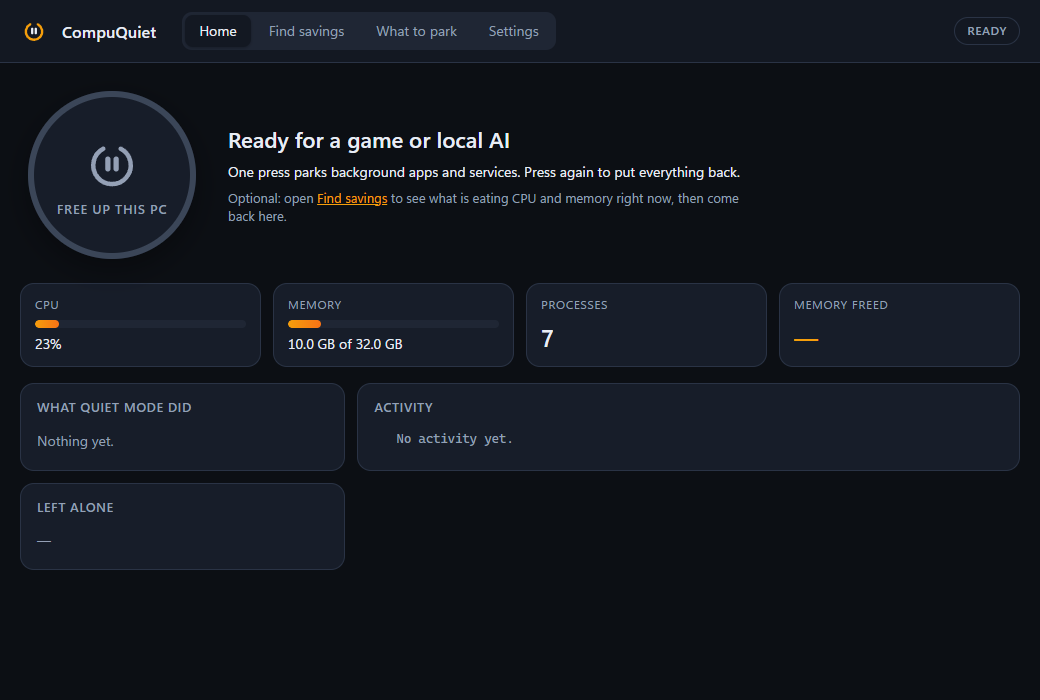
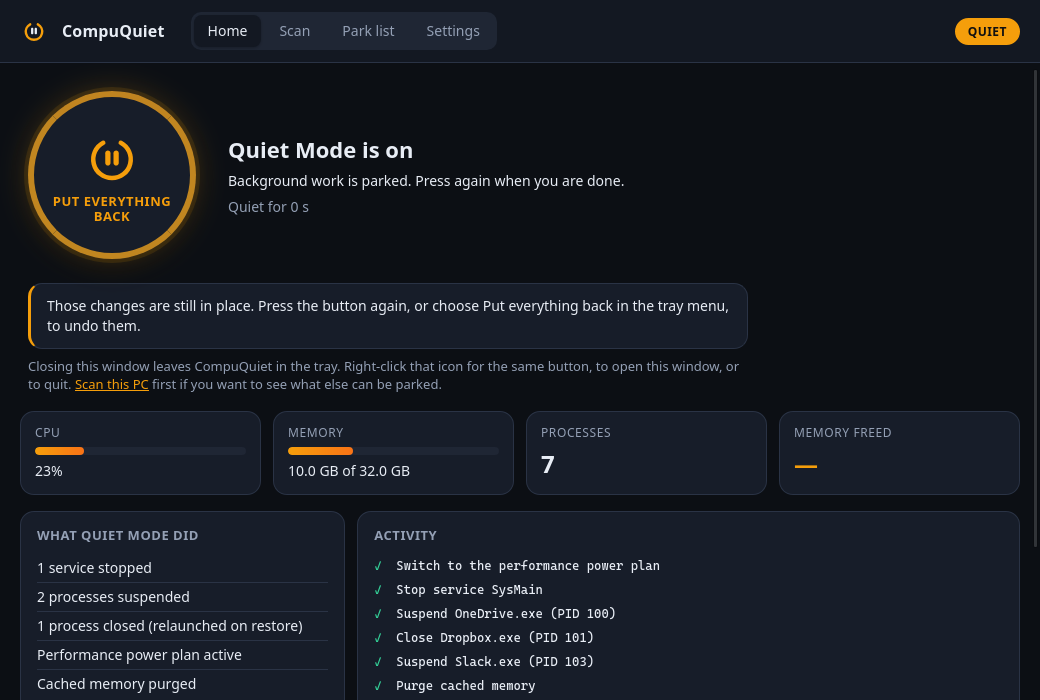
Release 1.1.3.
Bump the manifests so the tag can match, and describe Home, Scan, and Park list the way the window does.

diff --git a/README.md b/README.md
@@ -28,21 +28,23 @@ Your own "never touch" list sits on top of that.
 
 ## Using it
 
-1. Open CompuQuiet. The dashboard shows live CPU, memory and process figures.
-2. Open **Scan** to see where savings can be made right now: recognised
-   background software that is not yet a target, large programs with no
+1. Open CompuQuiet. Home shows live CPU, memory and process figures, and what
+   one press will do.
+2. Open **Scan** to see what is using resources right now: recognised
+   background software that is not yet on the park list, large programs with no
    window, stoppable services that are running, a non-performance power plan
    and a large file cache. Each row shows its cost, why it is safe and a risk
-   level; low-risk rows are pre-ticked. *Add selected & Go Quiet* does both.
-3. Review **Targets**: the built-in list of background hogs for your platform,
+   level. Low risk starts ticked; medium risk stays off until you tick it.
+   *Add and free up this PC* adds the ticked finds and parks them.
+3. Review **Park list**: the built-in list of background hogs for your platform,
    with a running/not-running indicator. Add any running program by name,
    choose Suspend or Close & relaunch, add services, and save.
-4. Press the big button. With *Scan before going quiet* on (the default),
-   the run also parks the low-risk finds without changing your saved targets.
-   The activity log shows every step and anything left alone (with the
-   reason). The tray icon turns amber while Quiet Mode is on.
-5. Press it again, or use the tray menu, to restore. Quitting while quiet
-   offers to restore first.
+4. Press the big button. With *Also park low-risk finds from a quick scan* on
+   (the default), the run also parks those finds without changing your saved
+   park list. The activity log shows every step and anything left alone (with
+   the reason). The tray icon turns amber while Quiet Mode is on.
+5. Press it again, or right-click the tray icon, to restore. Quitting while
+   quiet can put everything back first.
 
 ![The Scan tab](docs/scan.png)
 

diff --git a/AI_CONTEXT.md b/AI_CONTEXT.md
@@ -32,6 +32,7 @@ auto-apply low-risk only when `auto_scan` is on.
 
 ## Recent Context & Decisions
 
+- 2026-09-26: Release 1.1.3. Tag `v1.1.3` publishes installers after `verify` is green on that commit.
 - 2026-09-26: Tray menu opens from the event loop (`show_menu`) so Windows
   accepts item clicks; Linux re-applies the menu after an icon change.
   Home screen states what one press will do; Scan and Settings copy is plainer.
